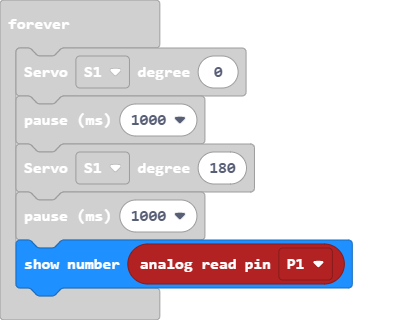
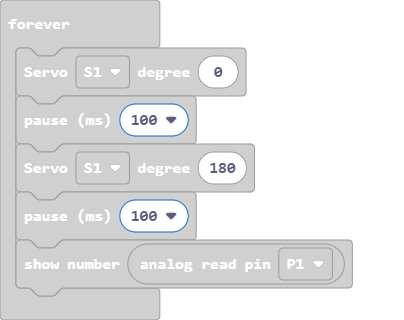
Update main.blocks, main.ts

Changed region(s): [[0.0297, 0.5938, 0.8911, 0.9375], [0.297, 0.2812, 0.5347, 0.4688], [0.297, 0.625, 0.3267, 0.6562]]

diff --git a/main.ts b/main.ts
@@ -7,8 +7,8 @@ basic.showLeds(`
     `)
 basic.forever(function () {
     robotbit.Servo(robotbit.Servos.S1, 0)
-    basic.pause(1000)
+    basic.pause(100)
     robotbit.Servo(robotbit.Servos.S1, 180)
-    basic.pause(1000)
+    basic.pause(100)
     basic.showNumber(pins.analogReadPin(AnalogPin.P1))
 })
